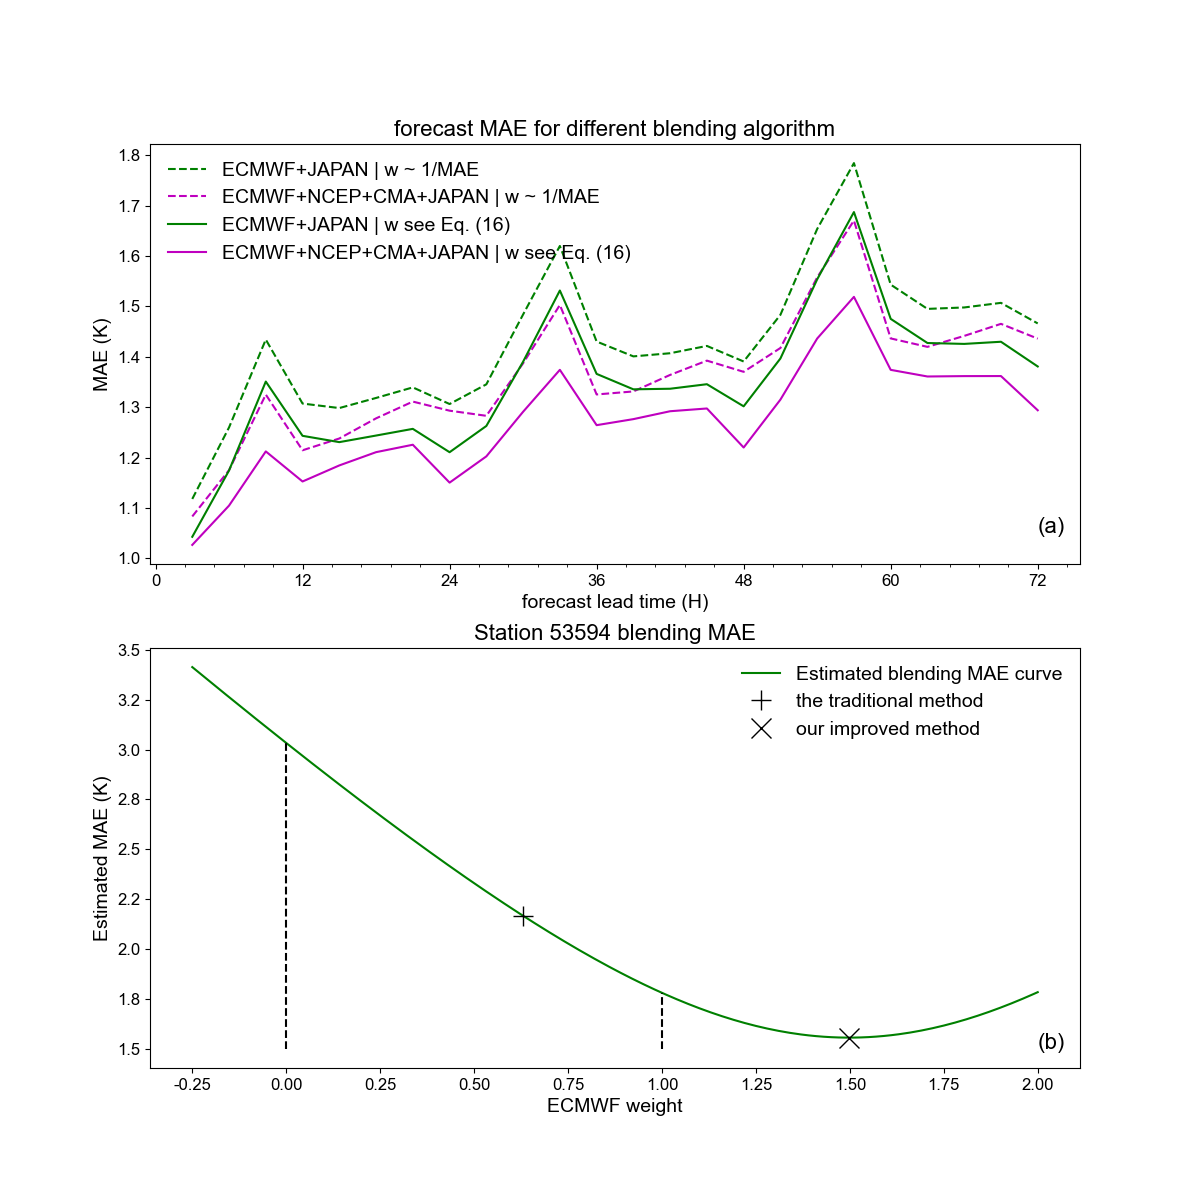
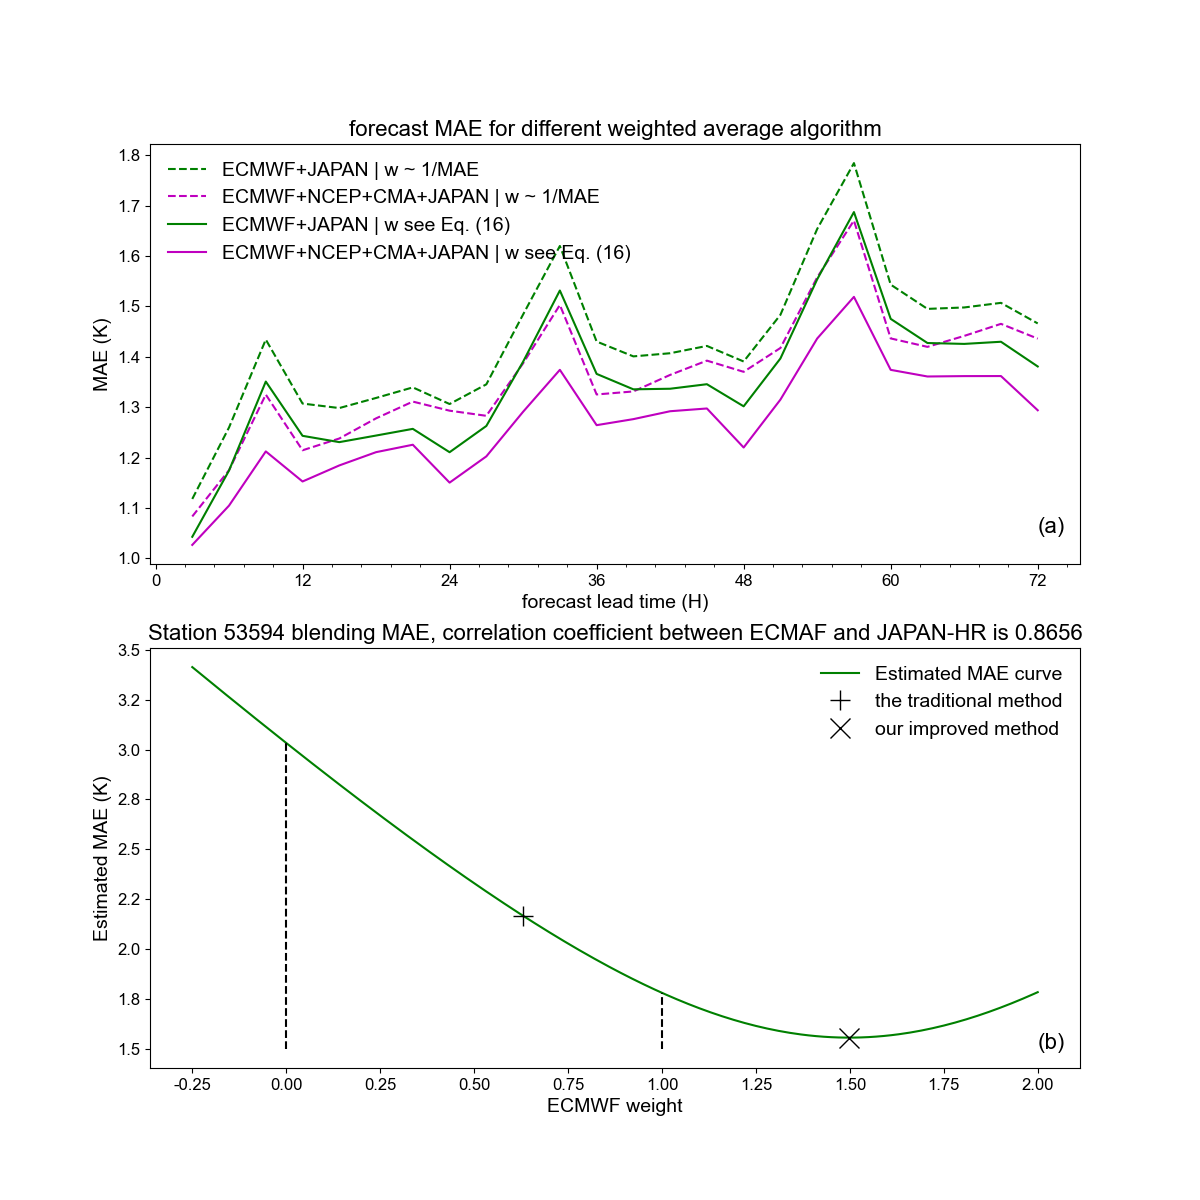
update some text

Changed region(s): [[0.37, 0.5242, 0.8942, 0.6167], [0.2775, 0.0925, 0.74, 0.1233], [0.1233, 0.5242, 0.3392, 0.555]]

diff --git a/N03.py b/N03.py
@@ -210,7 +210,7 @@ def fig_N03(st_id, fstH):
     ax1.plot(x, maes[:, 3], 'm-',  label='ECMWF+NCEP+CMA+JAPAN | w see Eq. (16)')
 
     ax1.legend(prop=lgd_font, framealpha=0)
-    ax1.set_title('forecast MAE for different blending algorithm', fontdict=title_font)
+    ax1.set_title('forecast MAE for different weighted average algorithm', fontdict=title_font)
     ax1.set_xlabel('forecast lead time (H)', fontdict=axis_font)
     ax1.set_ylabel('MAE (K)', fontdict=axis_font)
     
@@ -224,14 +224,14 @@ def fig_N03(st_id, fstH):
 
     # fig 03b
     ax2 = fig.add_subplot(2, 1, 2)
-    ax2.plot(w1, y2, 'g-', label='Estimated blending MAE curve')
+    ax2.plot(w1, y2, 'g-', label='Estimated MAE curve')
     ax2.plot([0,0], [1.5, bld_mae(0, 1, st_mae_ec, st_mae_jp, st_cc)], 'k--')
     ax2.plot([1,1], [1.5, bld_mae(1, 0, st_mae_ec, st_mae_jp, st_cc)], 'k--')
     ax2.plot(w1_twb, mae_twb, 'k+', label='the traditional method', markersize=14)
     ax2.plot(w[0], mae_cwb, 'kx', label='our improved method', markersize=14)
     
     ax2.legend(prop=lgd_font, framealpha=0)
-    ax2.set_title('Station %d blending MAE' % (st_id), fontdict=title_font)
+    ax2.set_title('Station %d blending MAE, correlation coefficient between ECMAF and JAPAN-HR is 0.8656' % (st_id), fontdict=title_font)
     ax2.set_xlabel('ECMWF weight', fontdict=axis_font)
     ax2.set_ylabel('Estimated MAE (K)', fontdict=axis_font)
     
